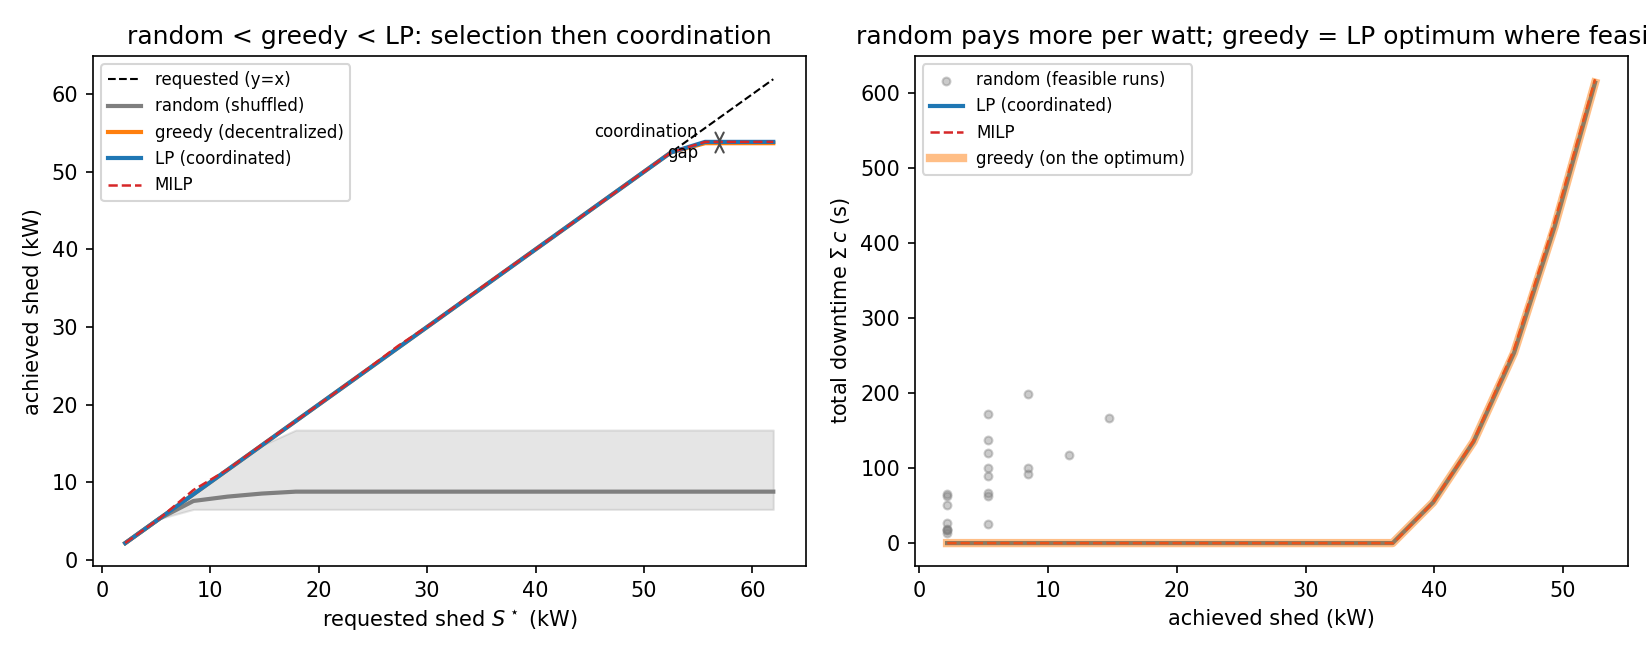
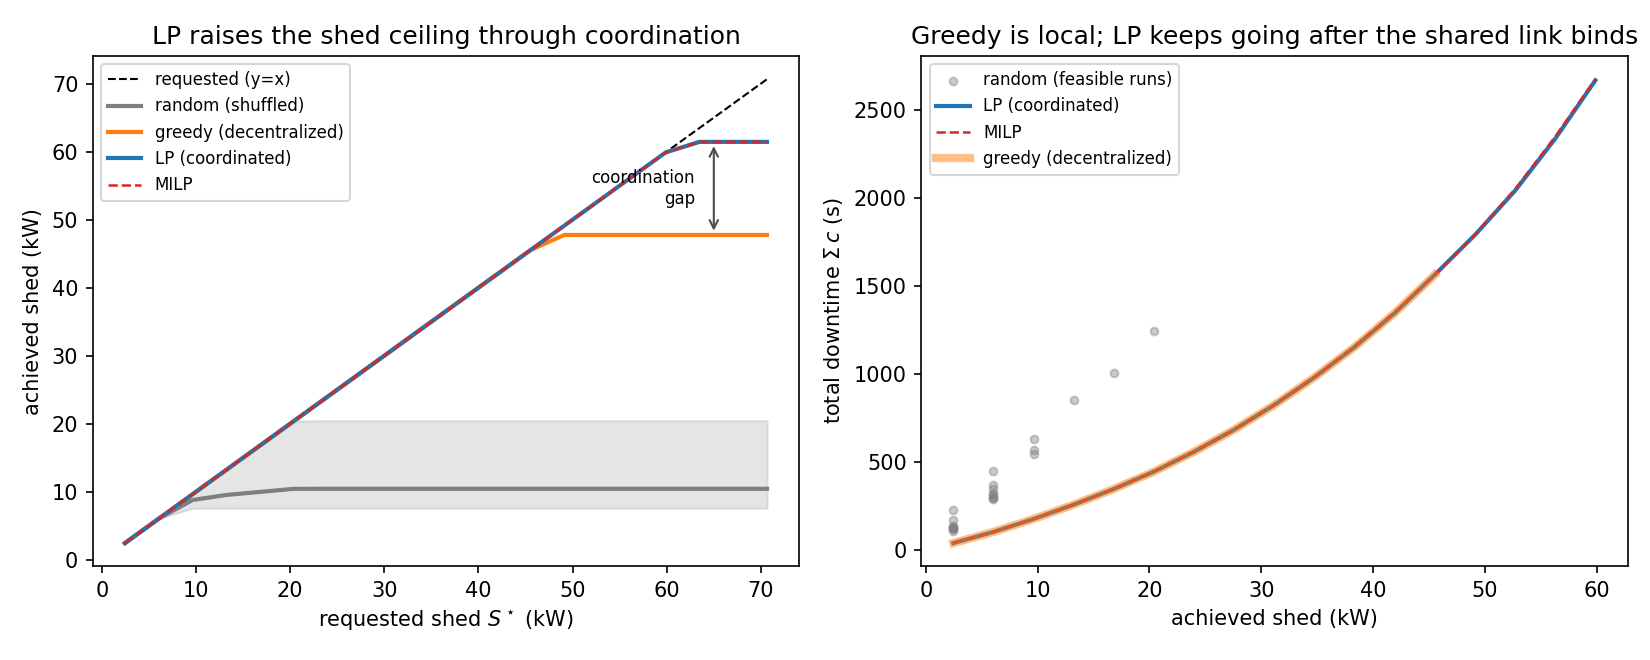
Show dispatch coordination on active sessions

diff --git a/agent-migrate/queue-haul/plot_dispatch_validation.py b/agent-migrate/queue-haul/plot_dispatch_validation.py
@@ -1,19 +1,17 @@
 """Validation plot for dispatch.py (formulation.md §Dispatch program).
 
-Three policies, all respecting the same movement budgets the deadline window
-allows (source egress bytes, rebuild capacity, destination headroom): a random
-baseline (shuffle the movable jobs, pick each action by coin flip), the
-decentralized greedy (each job self-selects its cheaper action, best-deal jobs
-move first), and the coordinated LP/MILP. Left: achieved shed vs requested S*.
-Each tracks y=x while feasible, then flattens at its ceiling — random < greedy <
-LP, because selection (greedy over random) and then global repacking
-(transfers→replays, LP over greedy) each fit more shed under the same egress link.
-Right: total downtime vs *achieved* shed (the fair per-watt view). Greedy lies
-exactly on the LP/MILP cost frontier (optimal where it can operate, just stops
-sooner); random sits well above it — it pays more downtime per watt shed.
+Active-session validation for dispatch.py. Three policies respect the same
+movement budgets (source egress bytes, rebuild capacity, destination headroom):
+random, decentralized greedy, and coordinated LP/MILP. The population is the
+default workload conditioned on active sessions, so idle/cold zero-downtime
+memory shed does not hide the action-choice problem. Left: achieved shed vs
+requested S*. Ceilings separate as random < greedy < LP because selection
+(greedy over random) and global repacking (LP over greedy) fit more shed under
+the same shared link. Right: total downtime vs achieved shed.
 """
 
 import os
+from dataclasses import replace
 
 import matplotlib
 
@@ -23,12 +21,12 @@ import numpy as np
 
 from dispatch import Event, bind_dp, greedy, random_dispatch, solve
 from impact import Movement, compute
-from instance import generate
+from instance import Workload, generate
 from power import PoolPower
 
 POOL = PoolPower()
-# Destination headroom slack; the 1 GB/s source egress link is the binding budget.
-POP = generate(POOL, n_nodes=16)
+WL = replace(Workload(), state_mix=(1.0, 0.0, 0.0))  # active-session coordination slice
+POP = generate(POOL, WL, n_nodes=16)
 IMP = compute(POP, POOL)
 EVENT = Event(dest_nodes=48, W=16)
 MOVE = Movement()
@@ -59,7 +57,7 @@ xg = 0.92 * S.max() / kW
 axA.annotate("", xy=(xg, lp_ceil / kW), xytext=(xg, g_ceil / kW), arrowprops=dict(arrowstyle="<->", color="0.3"))
 axA.text(xg - 2, (g_ceil + lp_ceil) / 2 / kW, "coordination\ngap", fontsize=8, ha="right", va="center")
 axA.set(xlabel="requested shed $S^\\star$ (kW)", ylabel="achieved shed (kW)",
-        title="random < greedy < LP: selection then coordination")
+        title="LP raises the shed ceiling through coordination")
 axA.legend(loc="upper left", fontsize=8)
 
 # --- Panel B: total downtime vs ACHIEVED shed (fair per-watt view) ---
@@ -70,9 +68,9 @@ r_pts = [(p.shed_guaranteed / kW, p.cost) for row in rd for p in row if p.feasib
 axB.scatter(*zip(*r_pts), s=14, color="tab:gray", alpha=0.4, label="random (feasible runs)")
 axB.plot(*frontier(lp), color="tab:blue", lw=2, label="LP (coordinated)")
 axB.plot(*frontier(mi), color="tab:red", lw=1.2, ls="--", label="MILP")
-axB.plot(*frontier(gr), color="tab:orange", lw=4, alpha=0.5, label="greedy (on the optimum)")
+axB.plot(*frontier(gr), color="tab:orange", lw=4, alpha=0.5, label="greedy (decentralized)")
 axB.set(xlabel="achieved shed (kW)", ylabel="total downtime $\\Sigma\\,c$ (s)",
-        title="random pays more per watt; greedy = LP optimum where feasible")
+        title="Greedy is local; LP keeps going after the shared link binds")
 axB.legend(loc="upper left", fontsize=8)
 
 fig.tight_layout()
@@ -81,7 +79,7 @@ for ext in ("pdf", "png"):
     fig.savefig(f"outputs/dispatch_validation.{ext}", dpi=150)
 
 print(f"regime={IMP.regime}  jobs={len(POP)}  ceilings kW: "
-      f"random={r_shed.max(1).mean():.1f}  greedy={g_ceil/kW:.1f}  LP={lp_ceil/kW:.1f}")
+      f"random={r_shed.max():.1f}  greedy={g_ceil/kW:.1f}  LP={lp_ceil/kW:.1f}")
 k = np.searchsorted(S, 0.5 * g_ceil)
 print(f"@S*={S[k]/kW:.1f}kW: random cost={np.mean([rd[k][s].cost for s in SEEDS]):.0f} "
       f"(shed {np.mean([rd[k][s].shed_guaranteed for s in SEEDS])/kW:.1f}kW, feas "

diff --git a/agent-migrate/queue-haul/FINDINGS.md b/agent-migrate/queue-haul/FINDINGS.md
@@ -75,12 +75,14 @@ infeasibility it re-solves to max-shed and reports the shortfall. `bind_dp` comm
 
 ### T5 — random vs greedy vs LP (`outputs/dispatch_validation.png`)
 
-Three policies under the same movement budgets. **Ceilings separate as random < greedy < LP:
-17.8 / 32.8 / 63.5 kW** (memory-bound pool, 296 jobs). Selection (greedy over random) then global
-repacking transfers→replays (LP over greedy, the **~2× coordination gap**) each fit more shed
-under the same links. On the fair per-watt view, **greedy lies exactly on the LP/MILP cost
-frontier** (optimal where it can operate, just stops sooner) while random pays far more downtime
-per watt (at `S*=17.4 kW`: random cost 756 s / shed 10.1 kW / 12% feasible, vs greedy = LP = 502 s).
+Three policies under the same movement budgets, on the default workload conditioned on active
+sessions so idle/cold zero-downtime memory shed does not hide the action-choice problem.
+**Ceilings separate as random < greedy < LP: 20.5 / 47.8 / 61.4 kW** (memory-bound pool,
+296 active jobs). Selection (greedy over random) then global repacking transfers→replays
+(LP over greedy, +13.7 kW beyond greedy) each fit more shed under the same links. On the
+fair per-watt view, greedy lies on the LP/MILP cost frontier where it is feasible, then
+stops sooner; at `S*=24.0 kW`, random sheds only 10.4 kW on average, while greedy and LP
+both meet the target at 557 s.
 
 ### T6 — certify low, report high (`outputs/certify_report_validation.png`)
 
